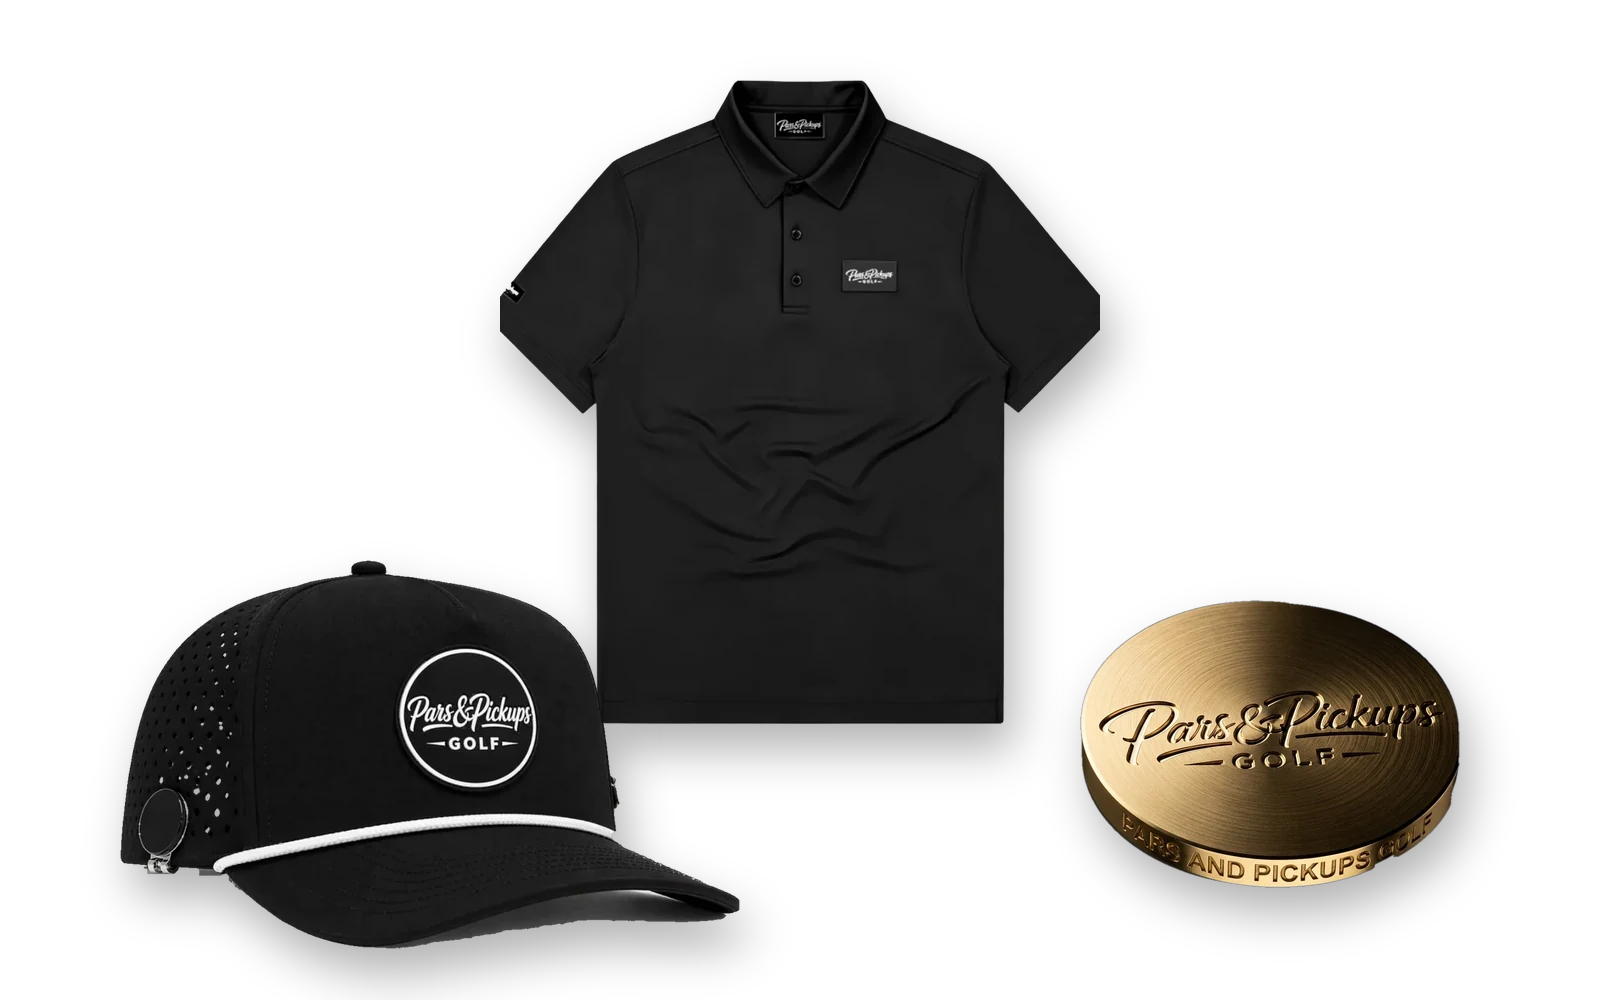
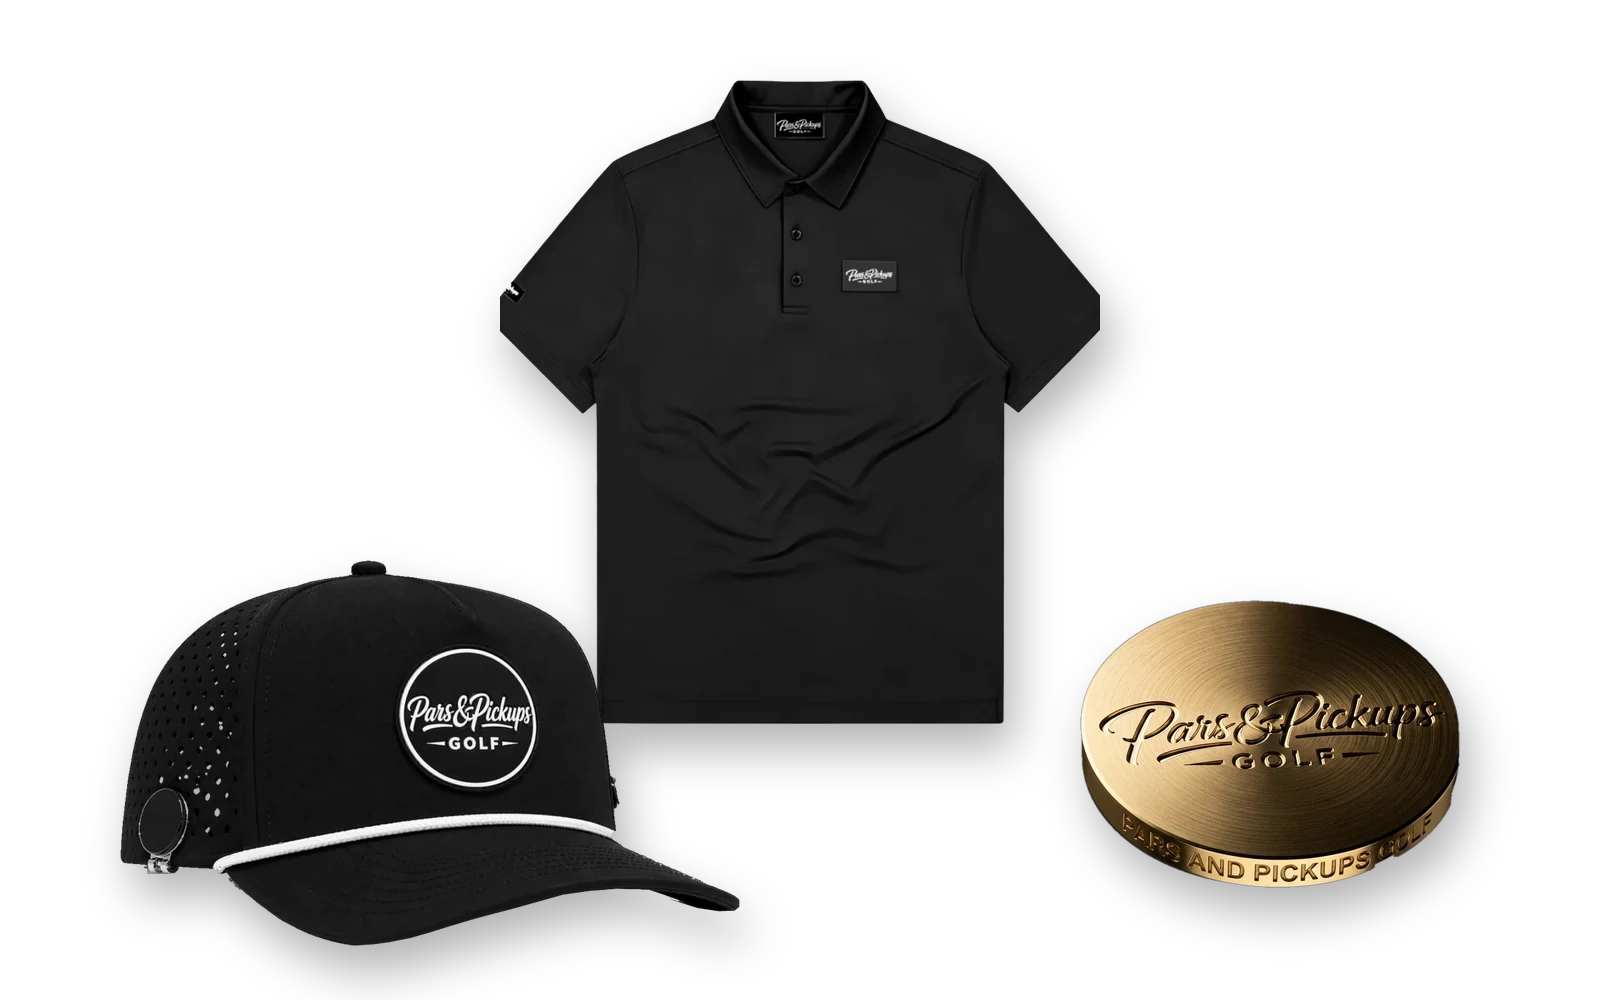
Hand-traced hat brim edge: remove underside shadow completely
Claude-Session: https://claude.ai/code/session_01BwiHTAJyzqrnJuDRiqanQY

Changed region(s): [[0.2188, 0.868, 0.4688, 0.961], [0.125, 0.868, 0.1562, 0.899]]

diff --git a/projects/pars-and-pickups-preview/index.html b/projects/pars-and-pickups-preview/index.html
@@ -218,34 +218,34 @@ footer nav { display: flex; flex-wrap: wrap; gap: 8px 24px; }
 (function () {
   var POLO_SIZES = ['S', 'M', 'L', 'XL', 'XXL'];
   var P = {
-    'black-polo': { name: 'Black Golf Polo', price: 85, cat: 'apparel', img: 'img/polo-black.webp?v=4', group: 'polo', color: 'Black', hex: '#141414', sizes: POLO_SIZES,
+    'black-polo': { name: 'Black Golf Polo', price: 85, cat: 'apparel', img: 'img/polo-black.webp?v=5', group: 'polo', color: 'Black', hex: '#141414', sizes: POLO_SIZES,
       blurb: 'The everyday round polo in black, finished with a woven Pars & Pickups patch at the chest.',
       details: ['Woven Pars & Pickups patch at the chest', 'Script logo on the left sleeve', 'Three-button placket', 'Branded label inside the collar'] },
-    'white-polo': { name: 'White Golf Polo', price: 85, cat: 'apparel', img: 'img/polo-white.webp?v=4', group: 'polo', color: 'White', hex: '#f4f2ee', sizes: POLO_SIZES,
+    'white-polo': { name: 'White Golf Polo', price: 85, cat: 'apparel', img: 'img/polo-white.webp?v=5', group: 'polo', color: 'White', hex: '#f4f2ee', sizes: POLO_SIZES,
       blurb: 'Clean white with the script logo stitched in black. Made for summer rounds.',
       details: ['Script logo at the chest', 'Script logo on the left sleeve', 'Three-button placket with black buttons', 'Branded label inside the collar'] },
-    'blue-polo': { name: 'Blue Golf Polo', price: 85, cat: 'apparel', img: 'img/polo-blue.webp?v=4', group: 'polo', color: 'Blue', hex: '#6a8fcf', sizes: POLO_SIZES,
+    'blue-polo': { name: 'Blue Golf Polo', price: 85, cat: 'apparel', img: 'img/polo-blue.webp?v=5', group: 'polo', color: 'Blue', hex: '#6a8fcf', sizes: POLO_SIZES,
       blurb: 'A soft blue polo with the script logo in navy.',
       details: ['Script logo at the chest', 'Script logo on the left sleeve', 'Three-button placket', 'Branded label inside the collar'] },
-    'black-hat': { name: 'Black Rope Hat', price: 65, cat: 'apparel', img: 'img/hat.webp?v=4',
+    'black-hat': { name: 'Black Rope Hat', price: 65, cat: 'apparel', img: 'img/hat.webp?v=5',
       blurb: 'Black rope hat with the circle patch, perforated side panels and a ball marker clip built in.',
       details: ['Circular Pars & Pickups patch on the front', 'White rope across the front of the bill', 'Laser-perforated side panels', 'Magnetic ball marker clip on the side'] },
-    'gold-ball-marker': { name: 'Gold Ball Marker', price: 70, cat: 'accessories', img: 'img/ball-marker.webp?v=4', tag: 'Signature',
+    'gold-ball-marker': { name: 'Gold Ball Marker', price: 70, cat: 'accessories', img: 'img/ball-marker.webp?v=5', tag: 'Signature',
       blurb: 'The signature piece. A heavy gold-finish marker with the script logo engraved into its face.',
       details: ['Gold finish with a brushed face', 'Engraved Pars & Pickups script logo', '"PARS AND PICKUPS GOLF" lettered around the edge', 'Arrives in a clear protective case'] },
-    'bundle': { name: 'The Pars & Pickups Bundle', price: 210, compare: 220, cat: 'bundle', img: 'img/bundle.webp?v=4', tag: 'Save $10', sizes: POLO_SIZES, sizeLabel: 'Polo size',
+    'bundle': { name: 'The Pars & Pickups Bundle', price: 210, compare: 220, cat: 'bundle', img: 'img/bundle.webp?v=5', tag: 'Save $10', sizes: POLO_SIZES, sizeLabel: 'Polo size',
       blurb: 'The full kit in one order: the Black Golf Polo, the Black Rope Hat and the Gold Ball Marker.',
       includes: ['black-polo', 'black-hat', 'gold-ball-marker'] },
-    'black-hoodie': { name: 'Black Logo Hoodie', cat: 'drop', soon: true, img: 'img/hoodie.webp?v=4',
+    'black-hoodie': { name: 'Black Logo Hoodie', cat: 'drop', soon: true, img: 'img/hoodie.webp?v=5',
       blurb: 'A heavyweight black hoodie with a small script logo at the chest.',
       details: ['Small Pars & Pickups script logo at the chest', 'Lined hood', 'Front kangaroo pocket', 'Ribbed cuffs and hem'] },
-    'golf-towel': { name: 'Black Golf Towel', cat: 'drop', soon: true, img: 'img/towel.webp?v=4',
+    'golf-towel': { name: 'Black Golf Towel', cat: 'drop', soon: true, img: 'img/towel.webp?v=5',
       blurb: 'A black waffle-weave golf towel with the script logo and a clip for the bag.',
       details: ['Black waffle weave', 'Pars & Pickups script logo', 'Round leather-look tab with black carabiner clip'] },
-    'divot-gold': { name: 'Gold Divot Tool', cat: 'drop', soon: true, img: 'img/divot-gold.webp?v=4',
+    'divot-gold': { name: 'Gold Divot Tool', cat: 'drop', soon: true, img: 'img/divot-gold.webp?v=5',
       blurb: 'A polished gold divot tool with scalloped grip edges and the script logo.',
       details: ['Polished gold finish', 'Scalloped grip edges', 'Pars & Pickups script logo'] },
-    'divot-silver': { name: 'Silver Divot Tool', cat: 'drop', soon: true, img: 'img/divot-silver.webp?v=4',
+    'divot-silver': { name: 'Silver Divot Tool', cat: 'drop', soon: true, img: 'img/divot-silver.webp?v=5',
       blurb: 'A brushed silver divot tool with scalloped grip edges and the script logo.',
       details: ['Brushed silver finish', 'Scalloped grip edges', 'Pars & Pickups script logo'] }
   };
@@ -272,13 +272,13 @@ footer nav { display: flex; flex-wrap: wrap; gap: 8px 24px; }
       '<h1>Dressed for the <i>first tee</i>.</h1>' +
       '<p class="lede">Polos, rope hats and gold-finish details for the course. Made for the round and for the drink after it.</p>' +
       '<div class="ctas"><a class="btn solid" href="#apparel">Shop apparel</a><a class="btn ghost" href="#bundle">The bundle · Save $10</a></div>' +
-    '</div><figure class="hero-art"><img src="img/ball-marker.webp?v=4" alt="Gold Pars and Pickups ball marker"><figcaption><a href="#gold-ball-marker">Gold Ball Marker · $70</a></figcaption></figure></div></section>' +
+    '</div><figure class="hero-art"><img src="img/ball-marker.webp?v=5" alt="Gold Pars and Pickups ball marker"><figcaption><a href="#gold-ball-marker">Gold Ball Marker · $70</a></figcaption></figure></div></section>' +
 
     '<section class="section rule" id="apparel"><div class="wrap"><div class="sec-head"><h2>Apparel</h2><p>Polos &amp; headwear</p></div>' +
       '<div class="grid">' + APPAREL.map(card).join('') + '</div></div></section>' +
 
     '<section class="bundle-band" id="bundle"><div class="wrap">' +
-      '<a class="art" href="#bundle-detail" aria-label="View the bundle"><img src="img/bundle-wide.webp?v=4" alt="Black Golf Polo, Black Rope Hat and Gold Ball Marker together" loading="lazy"></a>' +
+      '<a class="art" href="#bundle-detail" aria-label="View the bundle"><img src="img/bundle-wide.webp?v=5" alt="Black Golf Polo, Black Rope Hat and Gold Ball Marker together" loading="lazy"></a>' +
       '<div><p class="eyebrow">Bundle &amp; save</p><h2>The Pars &amp; Pickups Bundle</h2>' +
       '<ul class="includes">' + b.includes.map(function (i) { return '<li><span>' + esc(P[i].name) + '</span><span>' + money(P[i].price) + '</span></li>'; }).join('') + '</ul>' +
       '<div class="price-row"><b>' + money(b.price) + '</b><s>' + money(b.compare) + '</s><span class="save">Save $10</span></div>' +
@@ -330,7 +330,7 @@ footer nav { display: flex; flex-wrap: wrap; gap: 8px 24px; }
     }
     info += '<details><summary>Shipping &amp; returns</summary><p>Shipping rates and the return policy are shown at checkout on the live store.</p></details>';
     var upsell = (!p.includes && (p.group === 'polo' || id === 'black-hat' || id === 'gold-ball-marker'))
-      ? '<div class="upsell"><img src="img/bundle.webp?v=4" alt=""><div><b>Get the full kit</b><span>Polo, hat and marker for $210. Save $10.</span><a href="#bundle-detail">View the bundle →</a></div></div>' : '';
+      ? '<div class="upsell"><img src="img/bundle.webp?v=5" alt=""><div><b>Get the full kit</b><span>Polo, hat and marker for $210. Save $10.</span><a href="#bundle-detail">View the bundle →</a></div></div>' : '';
     var related = Object.keys(P).filter(function (k) { return k !== id && k !== 'bundle' && !P[k].soon; }).slice(0, 4);
     if (p.soon) related = DROP.filter(function (k) { return k !== id; }).concat(['gold-ball-marker']);
 
